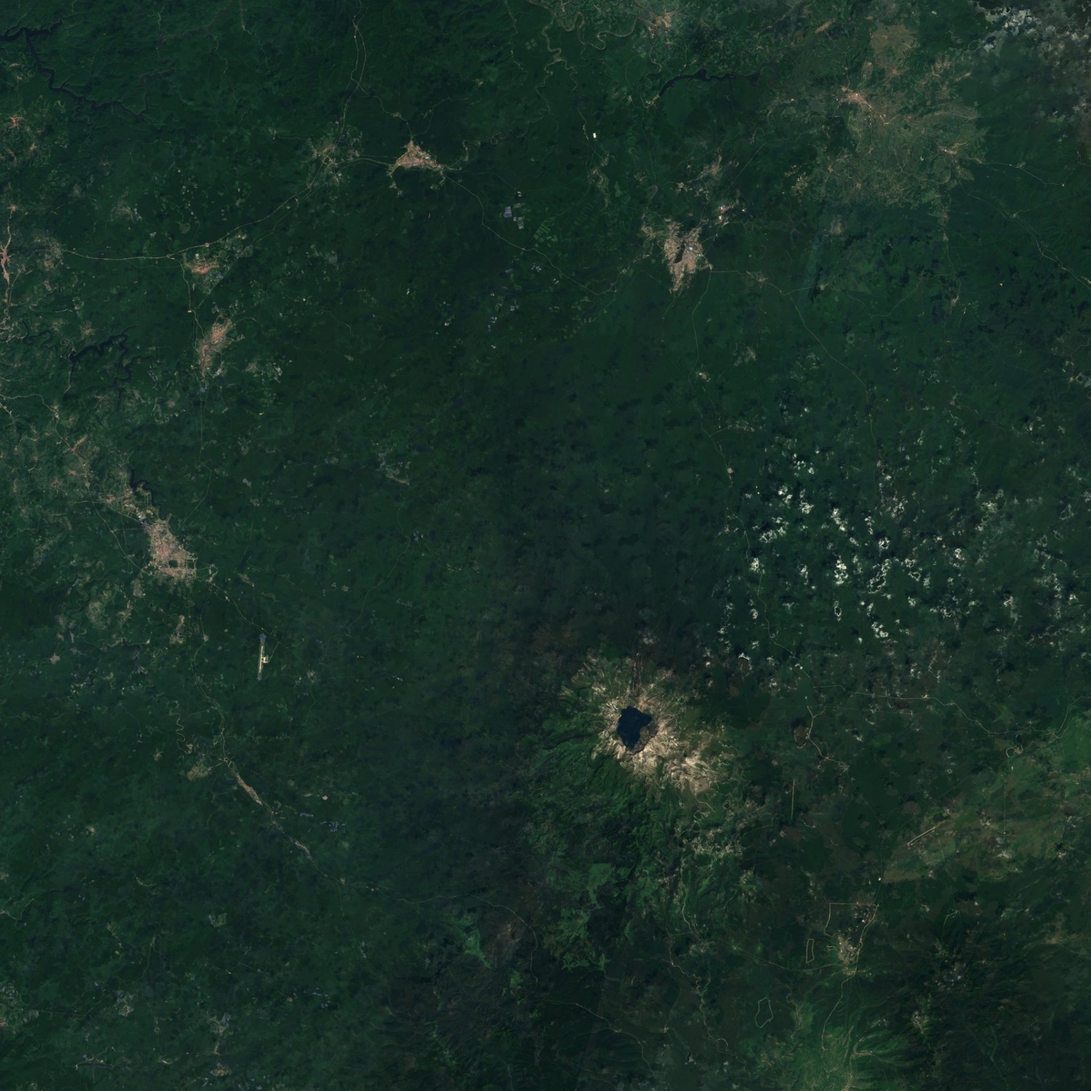
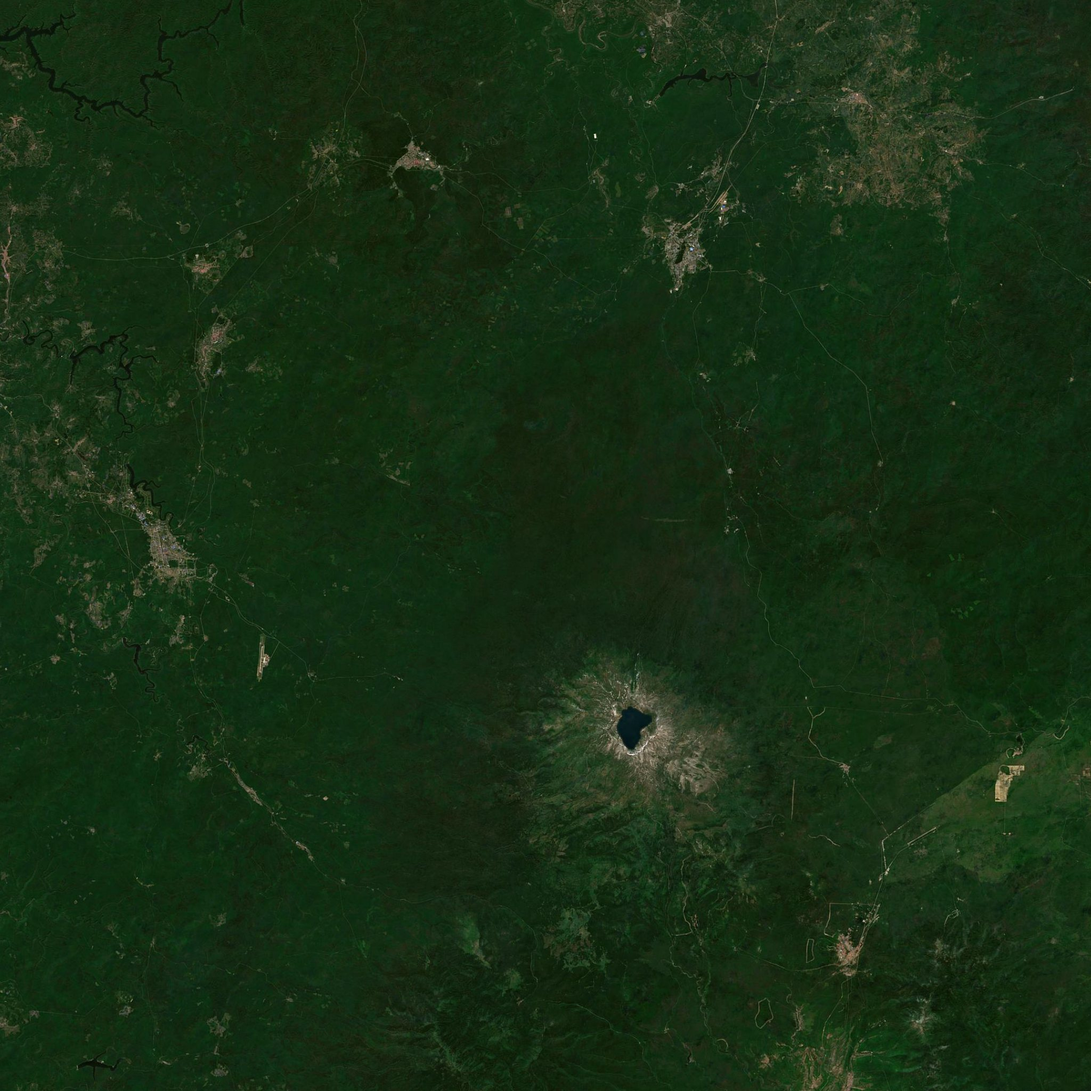
地理世界：喜马拉雅也能俯冲进去；所有地方统一用一个影像来源
- 影像统一用 Sentinel-2 cloudless 2020（全球一套、干净、颜色匀；非商用 CC BY-NC-SA），高程统一用 AWS Terrain Tiles，同一个脚本每处一条命令
- 喜马拉雅：从东边看过去，左边绿色的南坡河谷、中间雪山、右边土黄的青藏高原；剖面线从南坡 1 000 米左右的河谷经珠峰到北坡的高原；切出来的那一块落到书上，变成活页的模型
- 剖面线可以是几段折线；山名、说明写在线上合适的位置，衬一块深色玻璃，雪山上也看得清

diff --git a/src/world/terrain.js b/src/world/terrain.js
@@ -7,16 +7,26 @@ import { LineSegmentsGeometry } from 'three/examples/jsm/lines/LineSegmentsGeome
 import { LineMaterial } from 'three/examples/jsm/lines/LineMaterial.js';
 import cbDem from '../lessons/data/terrain/changbai.png';
 import cbImg from '../lessons/data/terrain/changbai.jpg';
+import qmDem from '../lessons/data/terrain/qomolangma.png';
+import qmImg from '../lessons/data/terrain/qomolangma.jpg';
 
 const R_KM = 6371, D2R = Math.PI / 180;
+const SRC = '卫星影像：Sentinel-2 cloudless 2020（EOX，含 Copernicus 数据，CC BY-NC-SA 4.0）· 高程：AWS Terrain Tiles（SRTM 等）';
 /** 每处地形：中心、边长（km）、高度放大几倍；target 是镜头看的那一点；view 从哪边看（az 镜头在目标的哪个方位，度，北 0 东 90）、俯角、看多宽（km）；cut 是画在地形上的那条线 */
 export const TERRAIN = {
   cb: {
     name: '长白山', dem: cbDem, img: cbImg, lat: 42.17, lon: 127.95, size: 110, exag: 3,          // 从东边看：地形往西（镜头对面）多铺一些
     target: [42.18, 128.07], view: { az: 100, el: 26, km: 60 },          // 从东边看过去：北坡从右边的山脚一路升到左边的天池，侧面就是课本那张剖面的样子
-    cut: { from: [42.37, 128.09], to: [42.028, 128.058], text: '北坡：从山脚（700 多米）到天池边（2 600 多米）' },
+    cut: { pts: [[42.37, 128.09], [42.028, 128.058]], text: '北坡：从山脚（700 多米）到天池边（2 600 多米）', nameAt: 1, textAt: 0.45 },          // nameAt、textAt：山名、说明写在线上走到哪儿
     crop: [[41.97, 42.41], [127.86, 128.28]],          // 切出来落到书上的那一块：天池和整条北坡
-    src: '卫星影像：Sentinel-2 cloudless 2016（EOX，含 Copernicus 数据）· 高程：AWS Terrain Tiles（SRTM 等）',
+    src: SRC,
+  },
+  hima: {
+    name: '喜马拉雅山脉', dem: qmDem, img: qmImg, lat: 27.93, lon: 86.93, size: 170, exag: 1.5,
+    target: [27.96, 86.88], view: { az: 95, el: 38, km: 165 },          // 从东边看：左边是南坡（尼泊尔的河谷），右边是北坡（青藏高原）
+    cut: { pts: [[27.3, 86.75], [27.988, 86.925], [28.62, 86.9]], text: '南坡从 1 000 米左右的河谷爬上珠峰（8 849 米），北坡脚下是 4 500 米左右的青藏高原', nameAt: 0.535, textAt: 0.22 },
+    crop: [[27.22, 28.66], [86.6, 87.15]],
+    src: SRC,
   },
 };
 
@@ -44,6 +54,14 @@ export function elevAt(def, x, y) {
 }
 /** 经纬度 → 当地平面（km） */
 export const toLocal = (def, lat, lon) => ({ x: (lon - def.lon) * 111.32 * Math.cos(def.lat * D2R), y: (lat - def.lat) * 111.32 });
+/** 那条线（几个点连起来）上走到 f（0—1）的那一点，当地平面 km */
+export function cutAt(def, f) {
+  const P = def.cut.pts.map((q) => toLocal(def, ...q)), L = [0];
+  for (let i = 1; i < P.length; i++) L.push(L[i - 1] + Math.hypot(P[i].x - P[i - 1].x, P[i].y - P[i - 1].y));
+  const d = f * L[L.length - 1]; let i = 1; while (i < P.length - 1 && L[i] < d) i++;
+  const k = (d - L[i - 1]) / Math.max(1e-6, L[i] - L[i - 1]);
+  return { x: P[i - 1].x + (P[i].x - P[i - 1].x) * k, y: P[i - 1].y + (P[i].y - P[i - 1].y) * k };
+}
 
 /** 地球上这块地形的东、北、上三个方向（地球自己的坐标，半径 1；和 kit/plates.js 的 ll2v 一致） */
 export function frameAt(lat, lon) {
@@ -79,8 +97,8 @@ export function globePatch(def, segs = 220) {
   mat.toneMapped = false;
   const mesh = new THREE.Mesh(geo, mat); mesh.raycast = () => {}; mesh.renderOrder = 2;
   // 画在地形上的线：沿地面走，高出地面一点
-  const lineAt = (f) => { const a = toLocal(def, ...def.cut.from), b = toLocal(def, ...def.cut.to), x = a.x + (b.x - a.x) * f, y = a.y + (b.y - a.y) * f; return place(x, y, elevAt(def, x, y) + 60, new THREE.Vector3()); };
-  const pts = []; for (let i = 0; i <= 80; i++) pts.push(lineAt(i / 80));
+  const lineAt = (f) => { const q = cutAt(def, f); return place(q.x, q.y, elevAt(def, q.x, q.y) + 60, new THREE.Vector3()); };
+  const pts = []; for (let i = 0; i <= 120; i++) pts.push(lineAt(i / 120));
   const lg = new LineSegmentsGeometry(); lg.setPositions(pts.flatMap((p, i) => (i ? [pts[i - 1].x, pts[i - 1].y, pts[i - 1].z, p.x, p.y, p.z] : [])));
   const cut = new LineSegments2(lg, new LineMaterial({ color: 0xffd28a, linewidth: 3, worldUnits: false, transparent: true, opacity: 0 }));
   cut.raycast = () => {}; cut.renderOrder = 3; cut.visible = false;
@@ -127,8 +145,8 @@ export function terrainBlock(def, crop, segs = 160) {
   const wallM = new THREE.MeshBasicMaterial({ vertexColors: true, side: THREE.DoubleSide, transparent: true, opacity: 1 });
   const walls = new THREE.Mesh(wg, wallM); walls.raycast = () => {}; g.add(walls);
   // 那条线
-  const A = toLocal(def, ...def.cut.from), B = toLocal(def, ...def.cut.to), pts = [];
-  for (let i = 0; i <= 80; i++) { const f = i / 80, x = A.x + (B.x - A.x) * f, y = A.y + (B.y - A.y) * f; pts.push(new THREE.Vector3(x, (elevAt(def, x, y) + 60) * ex, -y)); }
+  const pts = [];
+  for (let i = 0; i <= 120; i++) { const q = cutAt(def, i / 120); pts.push(new THREE.Vector3(q.x, (elevAt(def, q.x, q.y) + 60) * ex, -q.y)); }
   const lg = new LineSegmentsGeometry(); lg.setPositions(pts.flatMap((p, i) => (i ? [pts[i - 1].x, pts[i - 1].y, pts[i - 1].z, p.x, p.y, p.z] : [])));
   const cut = new LineSegments2(lg, new LineMaterial({ color: 0xffd28a, linewidth: 3, worldUnits: false, transparent: true, opacity: 0.95 })); cut.raycast = () => {}; g.add(cut);
   const center = new THREE.Vector3((x0 + x1) / 2, 0, -(y0 + y1) / 2);

diff --git a/src/style.css b/src/style.css
@@ -781,10 +781,10 @@ body.geo-world .tag3d.w-themes button.on { background: #f3d9a4; color: #2a2218; 
 .geo-dive .gd-north i { display: block; width: 0; height: 0; border-left: 7px solid transparent; border-right: 7px solid transparent; border-bottom: 22px solid #fff; filter: drop-shadow(0 1px 3px rgba(0,0,0,.5)); }
 .geo-dive .gd-north b { font: 600 13px/1 var(--sans); }
 .geo-dive .gd-src { font: 11px/1.4 var(--sans); color: rgba(255,255,255,.85); text-shadow: 0 1px 3px rgba(0,0,0,.7); }
-.tag3d.w-dive { display: flex; flex-direction: column; align-items: center; text-shadow: 0 1px 6px rgba(0,0,0,.6), 0 0 2px rgba(0,0,0,.6); transform-origin: center bottom; margin-top: -26px; pointer-events: none; }
+.tag3d.w-dive { display: flex; flex-direction: column; align-items: center; text-shadow: 0 1px 6px rgba(0,0,0,.6), 0 0 2px rgba(0,0,0,.6); transform-origin: center bottom; margin-top: -30px; pointer-events: none; padding: 6px 12px 7px; background: rgba(10,15,30,.5); border-radius: 6px; box-shadow: inset 0 0 0 1px rgba(214,177,110,.35); backdrop-filter: blur(4px); }          /* 雪山上也看得清：衬一块深色玻璃 */
 .tag3d.w-dive b { font: 600 18px/1.2 var(--song); color: #fff; letter-spacing: .08em; }
 .tag3d.w-dive small { font: 11.5px/1.3 var(--sans); color: rgba(255,255,255,.9); }
-.tag3d.w-cut { max-width: 220px; font: 600 12.5px/1.45 var(--sans); color: #ffe7b8; text-shadow: 0 1px 4px rgba(0,0,0,.75); pointer-events: none; white-space: normal; }
+.tag3d.w-cut { max-width: 230px; font: 600 12.5px/1.5 var(--sans); color: #ffe7b8; text-shadow: 0 1px 4px rgba(0,0,0,.75); pointer-events: none; white-space: normal; padding: 6px 10px; background: rgba(10,15,30,.5); border-radius: 6px; backdrop-filter: blur(4px); }
 .geo-dive .gd-btns { display: flex; gap: 10px; pointer-events: auto; }
 .geo-dive .gd-btns button { border: 0; border-radius: 999px; padding: 9px 18px; font: 600 14px/1 var(--sans); cursor: pointer; box-shadow: 0 6px 18px rgba(0,0,0,.25); }
 .geo-dive .gd-back { background: rgba(255,255,255,.85); color: #2f3a52; }

diff --git a/src/world/GeoWorld.js b/src/world/GeoWorld.js
@@ -420,10 +420,10 @@ export async function bootGeoWorld(stage, { focus = null } = {}) {
       stage.camera.lookAt(stage.rig.cur.target);          // 镜头的上一直是当地的上（舞台每帧按世界的上 lookAt，这里再摆一次）
       // 画那条线：从山脚往山顶画过去
       const k = THREE.MathUtils.smoothstep(D.ta, 0.4, 1.8), lg = D.P.cut.geometry;
-      lg.instanceCount = Math.max(1, Math.round(80 * k)); D.P.cut.material.opacity = 0.95;
-      const top = earth.root.localToWorld(D.P.lineAt(1).clone().applyQuaternion(earth.spin.quaternion));
+      lg.instanceCount = Math.max(1, Math.round(120 * k)); D.P.cut.material.opacity = 0.95;
+      const top = earth.root.localToWorld(D.P.lineAt(D.def.cut.nameAt ?? 1).clone().applyQuaternion(earth.spin.quaternion));
       diveTag.text(`<b>${D.def.name}</b><small>真实地形 · 高度放大 ${D.def.exag} 倍</small>`).at(top).show(true);
-      const mid = earth.root.localToWorld(D.P.lineAt(0.45).clone().applyQuaternion(earth.spin.quaternion));
+      const mid = earth.root.localToWorld(D.P.lineAt(D.def.cut.textAt ?? 0.45).clone().applyQuaternion(earth.spin.quaternion));
       D.cutTag ||= tag('', 'w-cut'); D.cutTag.text(D.def.cut.text).at(mid).show(k > 0.6);
       diveHud.classList.add('on'); diveHud.querySelector('.gd-src').textContent = D.def.src;
       const c0 = D.F.clone().project(stage.camera), c1 = D.F.clone().addScaledVector(D.north, earth.root.scale.x * 5 / 6371).project(stage.camera);          // 北在画面上朝哪
